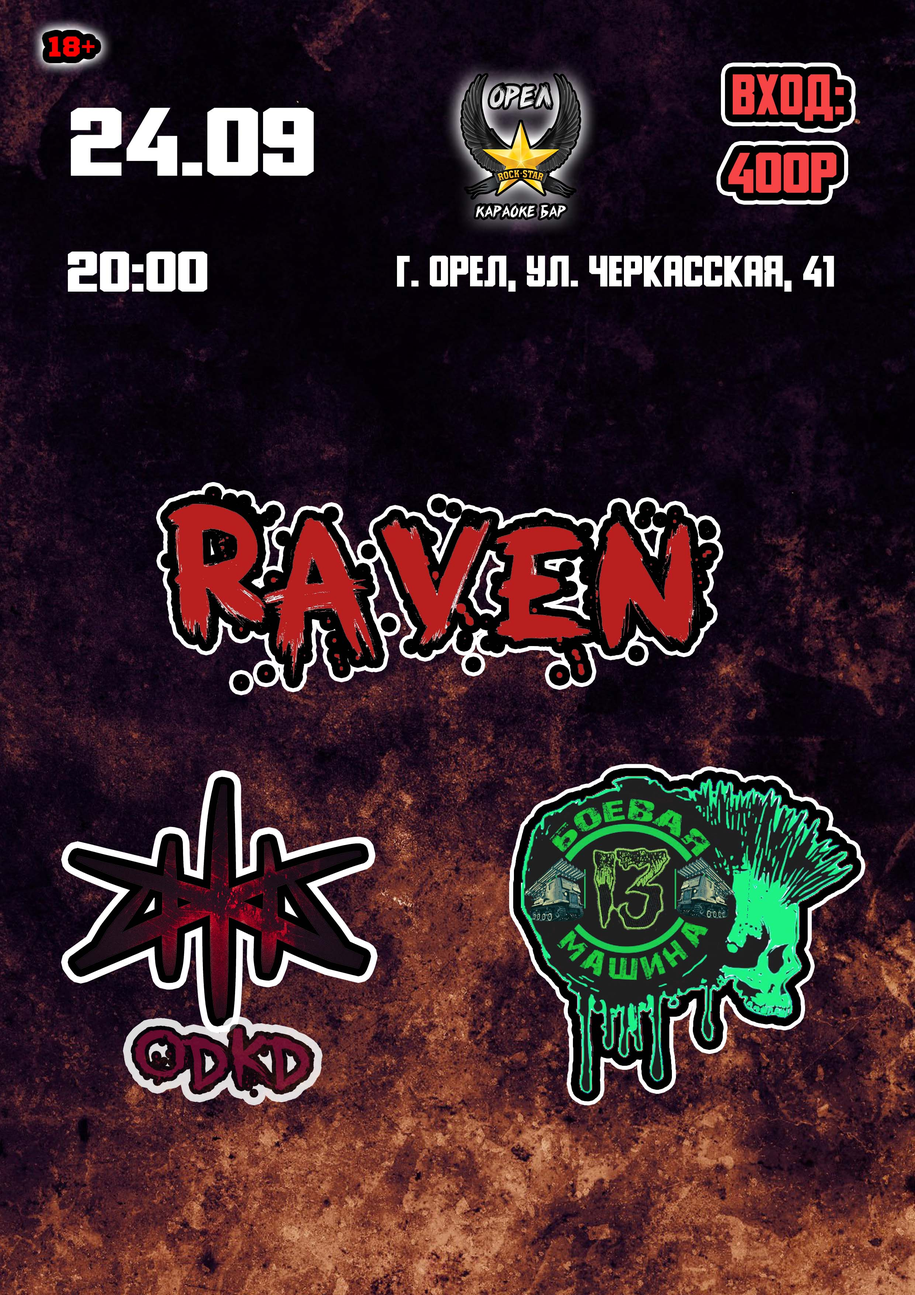
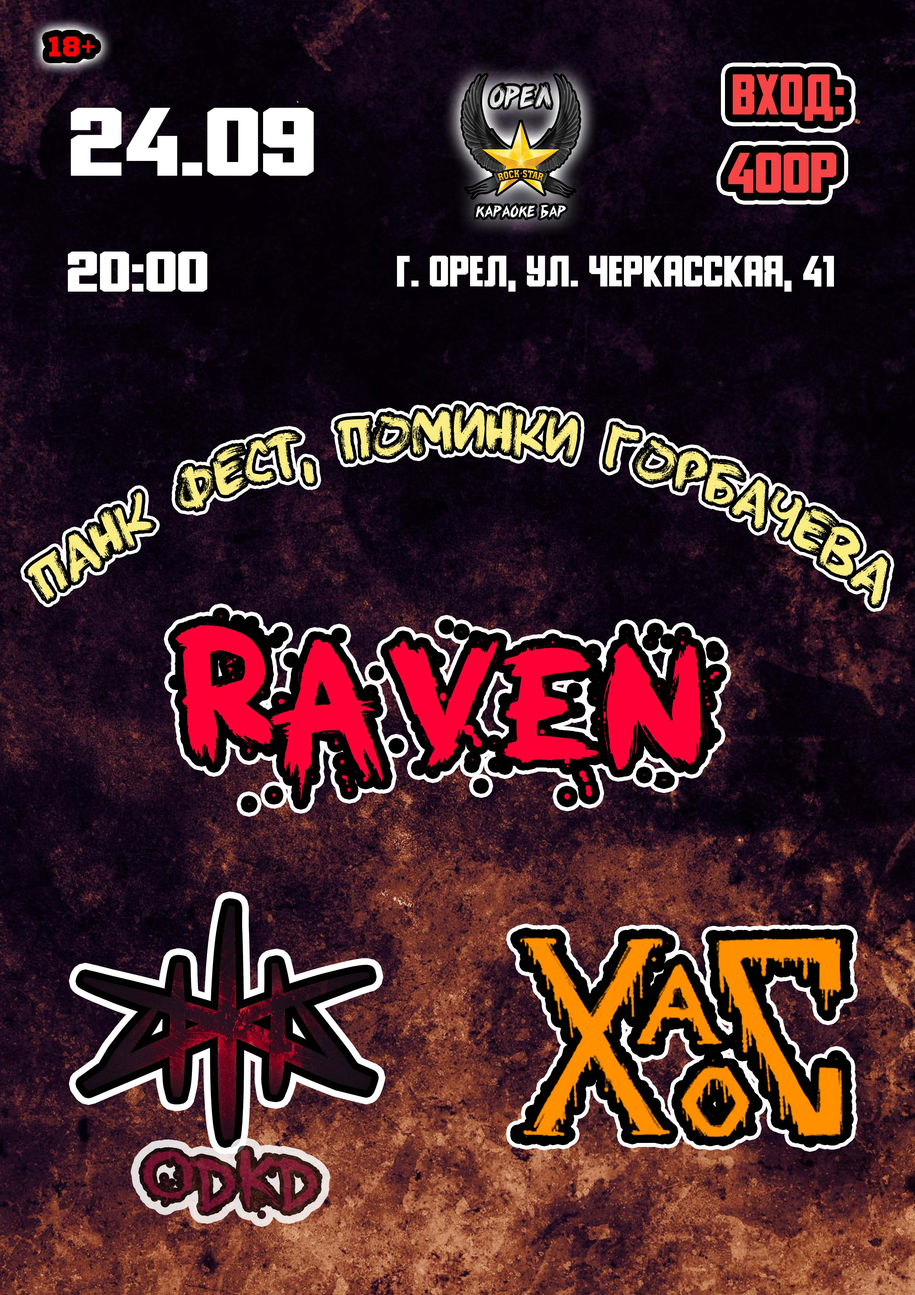
Add new posters

Changed region(s): [[0.031, 0.3107, 0.9935, 0.9632]]

diff --git a/js/index.js b/js/index.js
@@ -19,9 +19,9 @@ $(function() {
         $('.modal_img img').attr('src', src);
         $('.modal_img').fadeIn();
     });
-    $('.close').click(function() {
-        $('.modal_img').fadeOut();
-    });
+    // $('.close').click(function() {
+    //     $('.modal_img').fadeOut();
+    // });
 
     $(document).click(function(e) {
         if ($(e.target).is('.modal_img')) {
@@ -62,6 +62,7 @@ function toggleButton() {
     $select_agent = $('#agents').val();
 
     $date = $('#date').val();
+    $name_activity = $('#name_activity').val();
     $groups = $('#groups_select').val();
     $type_concert = $('#type_concert').val();
     $conditions = $('#conditions').val();
@@ -85,7 +86,7 @@ function toggleButton() {
         $('.add_group').attr('disabled', true);
     }
 
-    if ($date && $groups && $type_concert && $conditions && $status) {
+    if ($date && $name_activity && $groups && $type_concert && $conditions && $status) {
         $('.add_concert').attr('disabled', false);
     } else {
         $('.add_concert').attr('disabled', true);

diff --git a/head.html b/head.html
@@ -13,7 +13,5 @@
     <script src="https://ajax.googleapis.com/ajax/libs/jquery/3.6.0/jquery.min.js"></script>
     <script type="text/javascript" src="/js/header.js"></script>
     <script type="text/javascript" src="/js/index.js"></script>
-    <!-- <script src="https://cdnjs.cloudflare.com/ajax/libs/selectize.js/0.12.6/js/standalone/selectize.min.js" integrity="sha256-+C0A5Ilqmu4QcSPxrlGpaZxJ04VjsRjKu+G82kl5UJk=" crossorigin="anonymous"></script> -->
-    <!-- <link rel="stylesheet" href="https://cdnjs.cloudflare.com/ajax/libs/selectize.js/0.12.6/css/selectize.bootstrap3.min.css" integrity="sha256-ze/OEYGcFbPRmvCnrSeKbRTtjG4vGLHXgOqsyLFTRjg=" crossorigin="anonymous" /> -->
-    <!-- <script src="https://cdn.jsdelivr.net/npm/select2@4.1.0-rc.0/dist/js/select2.min.js"></script> -->
+    <script src="https://cdn.jsdelivr.net/npm/bootstrap@5.2.0/dist/js/bootstrap.bundle.min.js" integrity="sha384-A3rJD856KowSb7dwlZdYEkO39Gagi7vIsF0jrRAoQmDKKtQBHUuLZ9AsSv4jD4Xa" crossorigin="anonymous"></script>
 </head>

diff --git a/css/style.css b/css/style.css
@@ -523,25 +523,17 @@ select {
 
 .modal_img {
     display: none;
-    /* Hidden by default */
     position: fixed;
-    /* Stay in place */
     z-index: 1;
-    /* Sit on top */
-    padding-top: 50px;
-    /* Location of the box */
+    padding-top: 2%;
+    padding-bottom: 1%;
     left: 0;
     top: 0;
-    width: 100%;
-    /* Full width */
-    height: 100%;
-    /* Full height */
+    width: 100vw;
+    height: 100vh;
     overflow: auto;
-    /* Enable scroll if needed */
     background-color: rgb(0, 0, 0);
-    /* Fallback color */
     background-color: rgba(0, 0, 0, 0.9);
-    /* Black w/ opacity */
 }
 
 
@@ -550,7 +542,8 @@ select {
 .modal-content_img {
     margin: auto;
     display: block;
-    width: 60%;
+    height: 100%;
+    object-fit: contain;
 }
 
 

diff --git a/request.php b/request.php
@@ -6,7 +6,7 @@
 
 // $sql_concerts = "SELECT `Концерты`.`дата_время_начала` as `Дата и время начала`, `Группы`.`name` as `Группа`, `Тип_концерта`.`имя` as `Тип`, `Условия_выступления`.`имя` as `Условия выступления`, `Концерты`.`комментарий` as `Условия`, `Концерты`.`расходы` as `Расходы`, `Статус_переговоров`.`имя`as `Статус переговоров`";
 
-$sql = mysqli_query($con, "SELECT date(`дата_время_начала`) as `Дата`,  `Группы`.`name` as `Группа` from `Группы`, `Концерты` WHERE `Концерты`.`группа`=`Группы`.`id` and date(`дата_время_начала`) >= CURRENT_DATE");
+$sql = mysqli_query($con, "SELECT date(`дата_время_начала`) as `Дата`, `Группы`.`name` as `Группа` from `Группы`, `Концерты` WHERE `Концерты`.`группы`=`Группы`.`id` and date(`дата_время_начала`) >= CURRENT_DATE");
 
 $sql1 = mysqli_query($con, "SELECT * FROM `Город` ORDER BY `имя`");
 
@@ -18,9 +18,9 @@ $sql4 = mysqli_query($con, "SELECT * FROM `Тип_концерта`");
 
 $sql5 = mysqli_query($con, "SELECT * FROM `Условия_выступления`");
 
-$sql6 = mysqli_query($con, "SELECT * FROM `Статус_переговоров`");
+$sql6 = mysqli_query($con, "SELECT * FROM `Статус_переговоров` ORDER BY `id`");
 
-$sql7 = mysqli_query($con, "SELECT `Концерты`.`id` as `id`, `Концерты`.`дата_время_начала` as `Дата`, `Группы`.`name` as `Группа`, `Тип_концерта`.`имя` as `Тип`, `Условия_выступления`.`имя` as `Условия выступления`, `Концерты`.`комментарий` as `Комментарий`, `Концерты`.`расходы` as `Расходы`, `Статус_переговоров`.`имя`as `Статус переговоров` FROM `Концерты`, `Тип_концерта`,`Условия_выступления`,`Группы`, `Статус_переговоров` WHERE `Концерты`.`группа`=`Группы`.`id` AND `Концерты`.`тип_концерта`=`Тип_концерта`.`id` AND `Концерты`.`условия`=`Условия_выступления`.`id` AND `Концерты`.`статус_переговоров`=`Статус_переговоров`.`id` ORDER BY `Дата` ASC");
+$sql7 = mysqli_query($con, "SELECT `Концерты`.`id` as `id`, `Концерты`.`дата_время_начала` as `Дата`,  `название` as `Название`, `группы` as `Группы`, `Тип_концерта`.`имя` as `Тип`, `Условия_выступления`.`имя` as `Условия выступления`, `Концерты`.`комментарий` as `Комментарий`, `Концерты`.`расходы` as `Расходы`, `Статус_переговоров`.`имя`as `Статус переговоров` FROM `Концерты`, `Тип_концерта`,`Условия_выступления`, `Статус_переговоров` WHERE `Концерты`.`тип_концерта`=`Тип_концерта`.`id` AND `Концерты`.`условия`=`Условия_выступления`.`id` AND `Концерты`.`статус_переговоров`=`Статус_переговоров`.`id` ORDER BY `Дата` ASC");
 
 $sql8 = mysqli_query($con, "SELECT `Представитель`.`имя` as `Имя`, `Представитель`.`телефон` as `Телефон`, `Город`.`имя` AS `Город` FROM `Представитель`, `Город` WHERE `Город`.`id` = `Представитель`.`id_города` ORDER BY `Представитель`.`имя` ASC");
 
@@ -158,17 +158,16 @@ if (isset($_POST['btn_groups'])) {
     $agent_id = $a_id['id'];
   }
 
-  $genre_name = $con->real_escape_string($_POST['genre']);
-
-  if ($genre_name == NULL){
+  if ($_POST['genres'] == "noname"){
     $genre_id = '0';
   }else{
+    $genre_name = $con->real_escape_string($_POST['genres']);
     $genre_id = mysqli_query($con, "SELECT `id` FROM `Жанр_группы` WHERE `имя`=\"$genre_name\"");
   }
 
-  foreach ($genre_id as $g_id){
-    $genre_id = $g_id['id'];
-  }
+  // foreach ($genre_id as $g_id){
+  //   $genre_id = $g_id['id'];
+  // }
 
 
   $group_add = mysqli_query($con, "INSERT INTO `Группы` (`id`,`name`, `id_agent`,`id_жанра`) VALUES (NULL,'$group_name','$agent_id','$genre_id')");
@@ -189,20 +188,31 @@ if (isset($_POST['btn_groups'])) {
 if (isset($_POST['add_concert'])) {
 
   $date = $con->real_escape_string($_POST['date']);
-  $group_name = $con->real_escape_string($_POST['groups']);
+  $name = $con->real_escape_string($_POST['name_activity']);
+  $group_name_array = array();
+  $group_name = $_POST['groups'];
+
+  if ($group_name){
+    foreach ($group_name as $group){
+      array_push($group_name_array, $group);
+    }
+  }
+
+  $groups_name = $con->real_escape_string(implode(",", $group_name_array));
+
   $type_name = $con->real_escape_string($_POST['type_concert']);
   $condition_name = $con->real_escape_string($_POST['conditions']);
   $status_name = $con->real_escape_string($_POST['status']);
 
 
-  $group_id = mysqli_query($con, "SELECT * FROM `Группы` WHERE `name` = \"$group_name\"");
+  // $group_id = mysqli_query($con, "SELECT * FROM `Группы` WHERE `name` = \"$group_name\"");
   $type_id = mysqli_query($con, "SELECT * FROM `Тип_концерта` WHERE `имя` = \"$type_name\"");
   $condition_id = mysqli_query($con, "SELECT * FROM `Условия_выступления` WHERE `имя` = \"$condition_name\"");
   $status_id = mysqli_query($con, "SELECT * FROM `Статус_переговоров` WHERE `имя` = \"$status_name\"");
 
-  foreach ($group_id as $g){
-    $group_id = $g['id'];
-  }
+  // foreach ($group_id as $g){
+  //   $group_id = $g['id'];
+  // }
   foreach ($type_id as $t){
     $type_id = $t['id'];
   }
@@ -221,7 +231,7 @@ if (isset($_POST['add_concert'])) {
     $costs = 0;
   }
 
-  $concert_add =  mysqli_query($con, "INSERT INTO `Концерты` (`id`, `дата_время_начала`,`группа`, `тип_концерта`, `условия`,`комментарий`,`расходы`,`статус_переговоров`) VALUES (NULL, \"$date\", \"$group_id\", \"$type_id\", \"$condition_id\", \"$comment\", \"$costs\", \"$status_id\")");
+  $concert_add =  mysqli_query($con, "INSERT INTO `Концерты` (`id`, `дата_время_начала`,`название`,`группы`, `тип_концерта`, `условия`,`комментарий`,`расходы`,`статус_переговоров`) VALUES (NULL, \"$date\", \"$name\",\"$groups_name\", \"$type_id\", \"$condition_id\", \"$comment\", \"$costs\", \"$status_id\")");
 
   if ($concert_add) {
     header("Refresh: 1;" ."/admin.php");
@@ -237,7 +247,17 @@ if (isset($_POST['edit_concert'])) {
 
   $id = ($_POST['id_edit']);
   $date = $con->real_escape_string($_POST['date_edit']);
-  $group_name = $con->real_escape_string($_POST['group_edit']);
+  $name = $con->real_escape_string($_POST['name_edit']);
+  $group_name_array = array();
+  $group_name = $_POST['group_edit'];
+
+  if ($group_name){
+    foreach ($group_name as $group){
+      array_push($group_name_array, $group);
+    }
+  }
+
+  $groups_name = $con->real_escape_string(implode(",", $group_name_array));
   $type_name = $con->real_escape_string($_POST['type_concert_edit']);
   $condition_name = $con->real_escape_string($_POST['condition_edit']);
   $comment_edit = $con->real_escape_string($_POST['comments_edit']);
@@ -245,14 +265,14 @@ if (isset($_POST['edit_concert'])) {
   $status_name = $con->real_escape_string($_POST['status_edit']);
 
 
-  $group_id = mysqli_query($con, "SELECT * FROM `Группы` WHERE `name` = \"$group_name\"");
+  // $group_id = mysqli_query($con, "SELECT * FROM `Группы` WHERE `name` = \"$group_name\"");
   $type_id = mysqli_query($con, "SELECT * FROM `Тип_концерта` WHERE `имя` = \"$type_name\"");
   $condition_id = mysqli_query($con, "SELECT * FROM `Условия_выступления` WHERE `имя` = \"$condition_name\"");
   $status_id = mysqli_query($con, "SELECT * FROM `Статус_переговоров` WHERE `имя` = \"$status_name\"");
 
-  foreach ($group_id as $g){
-    $group_id = $g['id'];
-  }
+  // foreach ($group_id as $g){
+  //   $group_id = $g['id'];
+  // }
   foreach ($type_id as $t){
     $type_id = $t['id'];
   }
@@ -269,7 +289,7 @@ if (isset($_POST['edit_concert'])) {
     $costs_edit = 0;
   }
 
-$sql = mysqli_query($con, "UPDATE `Концерты` SET `дата_время_начала`='$date', `группа`='$group_id', `тип_концерта`='$type_id', `условия`='$condition_id', `комментарий`='$comment_edit', `расходы`='$costs_edit', `статус_переговоров`='$status_id' WHERE `Концерты`.`id` = '$id'");
+$sql = mysqli_query($con, "UPDATE `Концерты` SET `дата_время_начала`='$date', `Название` = '$name', `группы`='$groups_name', `тип_концерта`='$type_id', `условия`='$condition_id', `комментарий`='$comment_edit', `расходы`='$costs_edit', `статус_переговоров`='$status_id' WHERE `Концерты`.`id` = '$id'");
   if ($sql) {
     header("Refresh: 1;" ."/admin.php");
     exit;

diff --git a/admin.php b/admin.php
@@ -84,14 +84,13 @@ if (! $_SESSION['admin']){
               echo "<option value=\"$agent\" class=\"section-admin__select-option\">$agent</option>";
             }
             echo"</select>
-            <select name=\"genre\" id=\"genre\" class=\"section-admin__genre_name\" onchange=\"toggleButton()\">
-              <option value=\"NULL\" selected disabled hidden>Жанр</option>";
-
+            <select name=\"genres\" id=\"genres\" class=\"section-admin__genre_name\">
+              <option value=\"noname\" selected>Не выбрано</option>";
             foreach ($genre_array as $gen) {
               foreach ($gen as $genres) {
-                $genre = $genres['имя'];
+                $genres = $genres['имя'];
               }
-              echo "<option value=\"$genre\" class=\"section-admin__select-option\">$genre</option>";
+              echo "<option value=\"$genres\" class=\"section-admin__select-option\">$genres</option>";
             }
             echo"</select>
             <input class=\"btn_concert add_group\" type=\"submit\" name=\"btn_groups\" value=\"Добавить\" disabled>
@@ -107,10 +106,15 @@ if (! $_SESSION['admin']){
                 <input class=\"input\" type=\"datetime-local\" name=\"date\" id=\"date\" onchange=\"toggleButton()\">
               </label>
             </div>
+            <div class=\"input\">
+              <label class=\"input__label flex\" for=\"#name_activity\">Название
+                <input class=\"input\" type=\"name_activity\" name=\"name_activity\" id=\"name_activity\" onchange=\"toggleButton()\">
+              </label>
+            </div>
 
             <div class=\"input\">
               <label class=\"input__label flex\" for=\"#groups\">Группа
-                <select name=\"groups\" id=\"groups_select\" onchange=\"toggleButton()\">
+                <select name=\"groups[]\" id=\"groups_select\" multiple onchange=\"toggleButton()\">
                 <option value=\"NULL\" selected disabled hidden>Группа</option>";
 
                 foreach ($group_array as $gr) {
@@ -191,6 +195,7 @@ if (! $_SESSION['admin']){
                 <table class=\"table\">
                 <tr>
                   <th>Дата</th>
+                  <th>Название</th>
                   <th>Группа</th>
                   <th>Тип концерта</th>
                   <th>Условия</th>
@@ -203,7 +208,8 @@ if (! $_SESSION['admin']){
                   foreach ($c as $concert) {
                       $id = $concert['id'];
                       $data = $concert['Дата'];
-                      $groups = $concert['Группа'];
+                      $name = $concert['Название'];
+                      $groups = $concert['Группы'];
                       $type_concert = $concert['Тип'];
                       $conditions = $concert['Условия выступления'];
                       $comments = $concert['Комментарий'];
@@ -212,6 +218,7 @@ if (! $_SESSION['admin']){
                   }
                   echo "<tr>
                           <td>$data</td>
+                          <td>$name</td>
                           <td>$groups</td>
                           <td>$type_concert</td>
                           <td>$conditions</td>

diff --git a/index.php b/index.php
@@ -12,7 +12,7 @@
 
         <div id="myModal" class="modal_img">
         <!-- The Close Button -->
-        <span class="close">&times;</span>
+        <!-- <span class="close">&times;</span> -->
         <!-- Modal Content (The Image) -->
         <img class="modal-content_img" id="img01">
         <!-- Modal Caption (Image Text) -->
